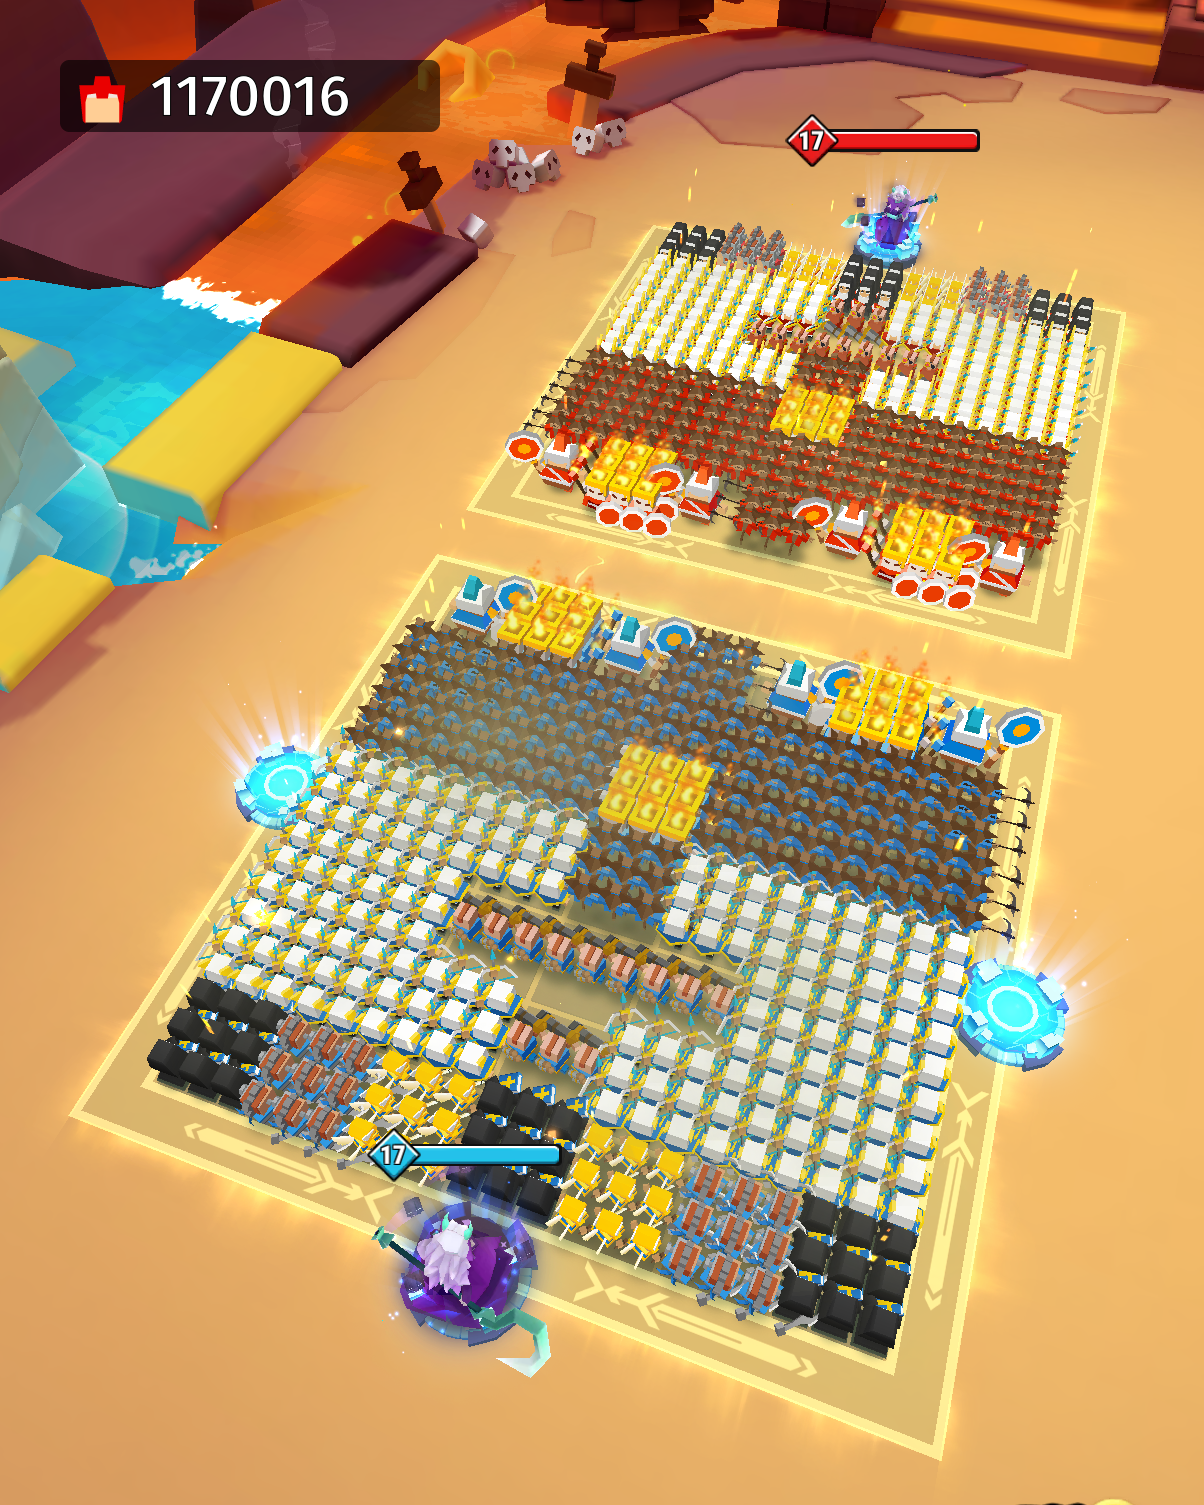
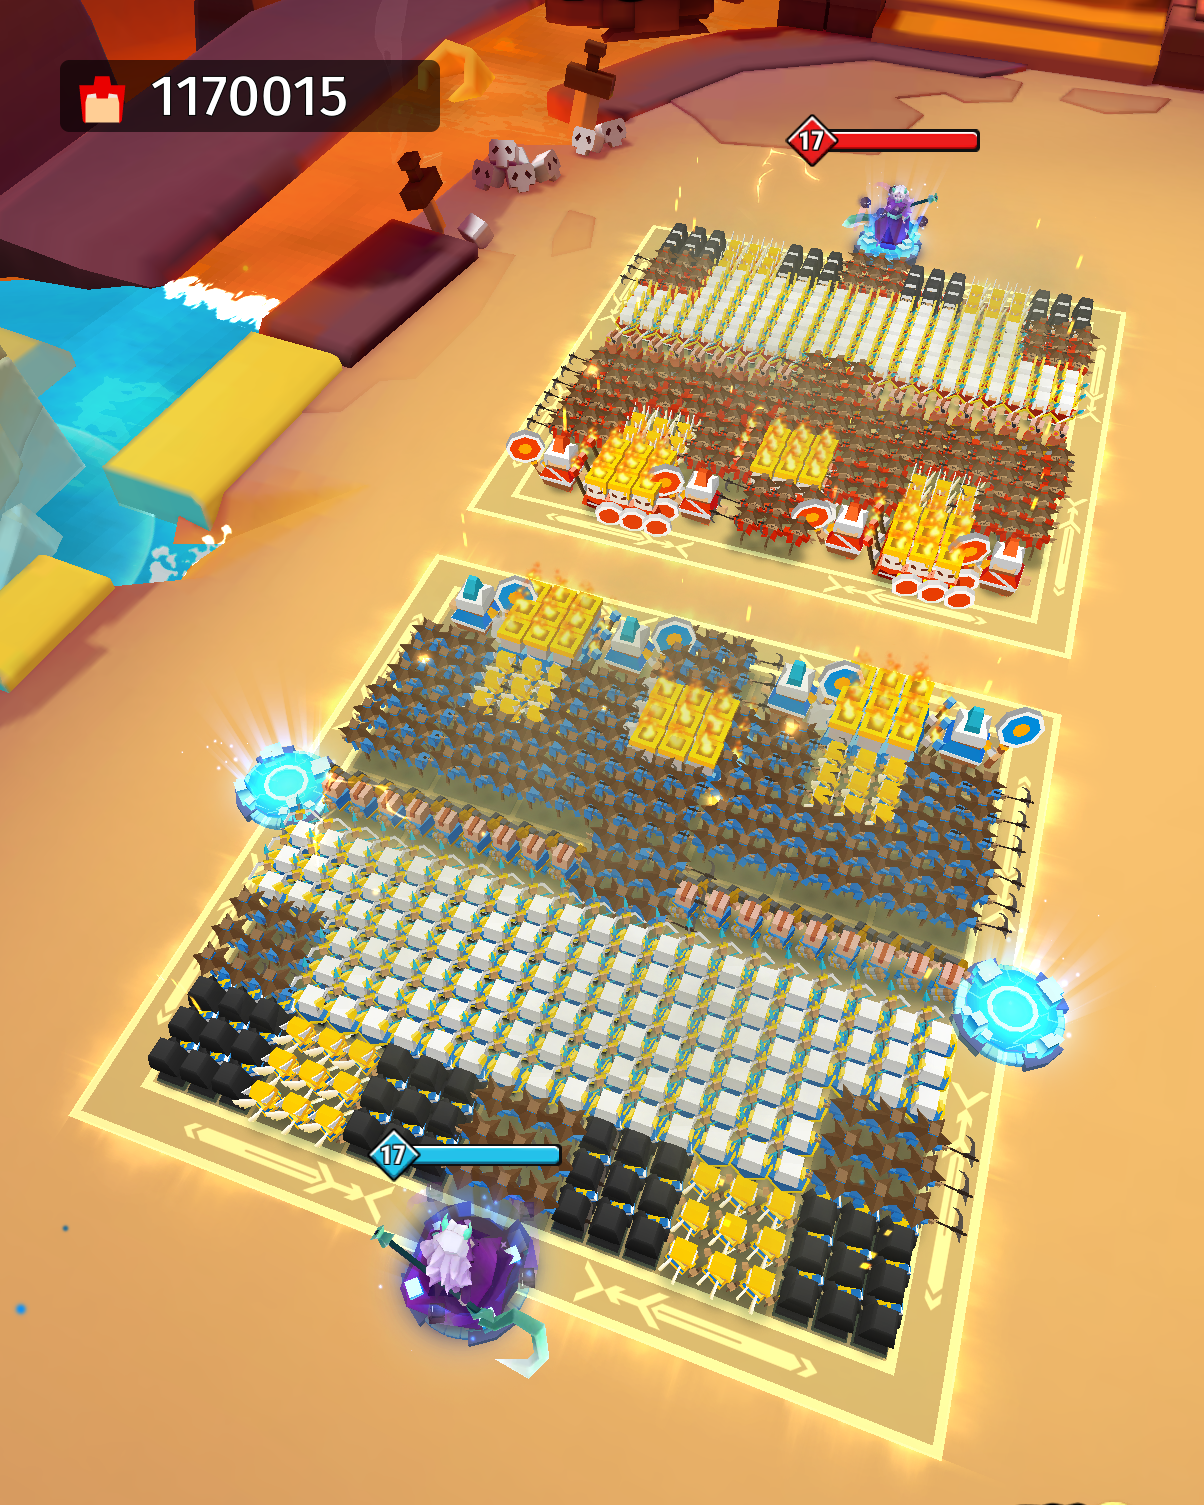
rehash

diff --git a/forms/backstage/process-images.js b/forms/backstage/process-images.js
@@ -66,9 +66,7 @@ function processFormImg(fPath, hash, defId, atkId) {
         {input: getLabelBuffer(defId), left: 60, top: 60+(200-72)},
       ]);
   }
-
   // return image;
-  // await delay(Math.floor(Math.random()*5189 + 800));
 }
 
 function processReportImg(fPath, hash, formId, reportId) {
@@ -125,6 +123,7 @@ async function processImages() {
       }
     }
     fs.renameSync(fPath, path.join(currDir, 'ss-archive', fName));
+    await delay(Math.floor(Math.random()*5189 + 800));
   }
 }
 
